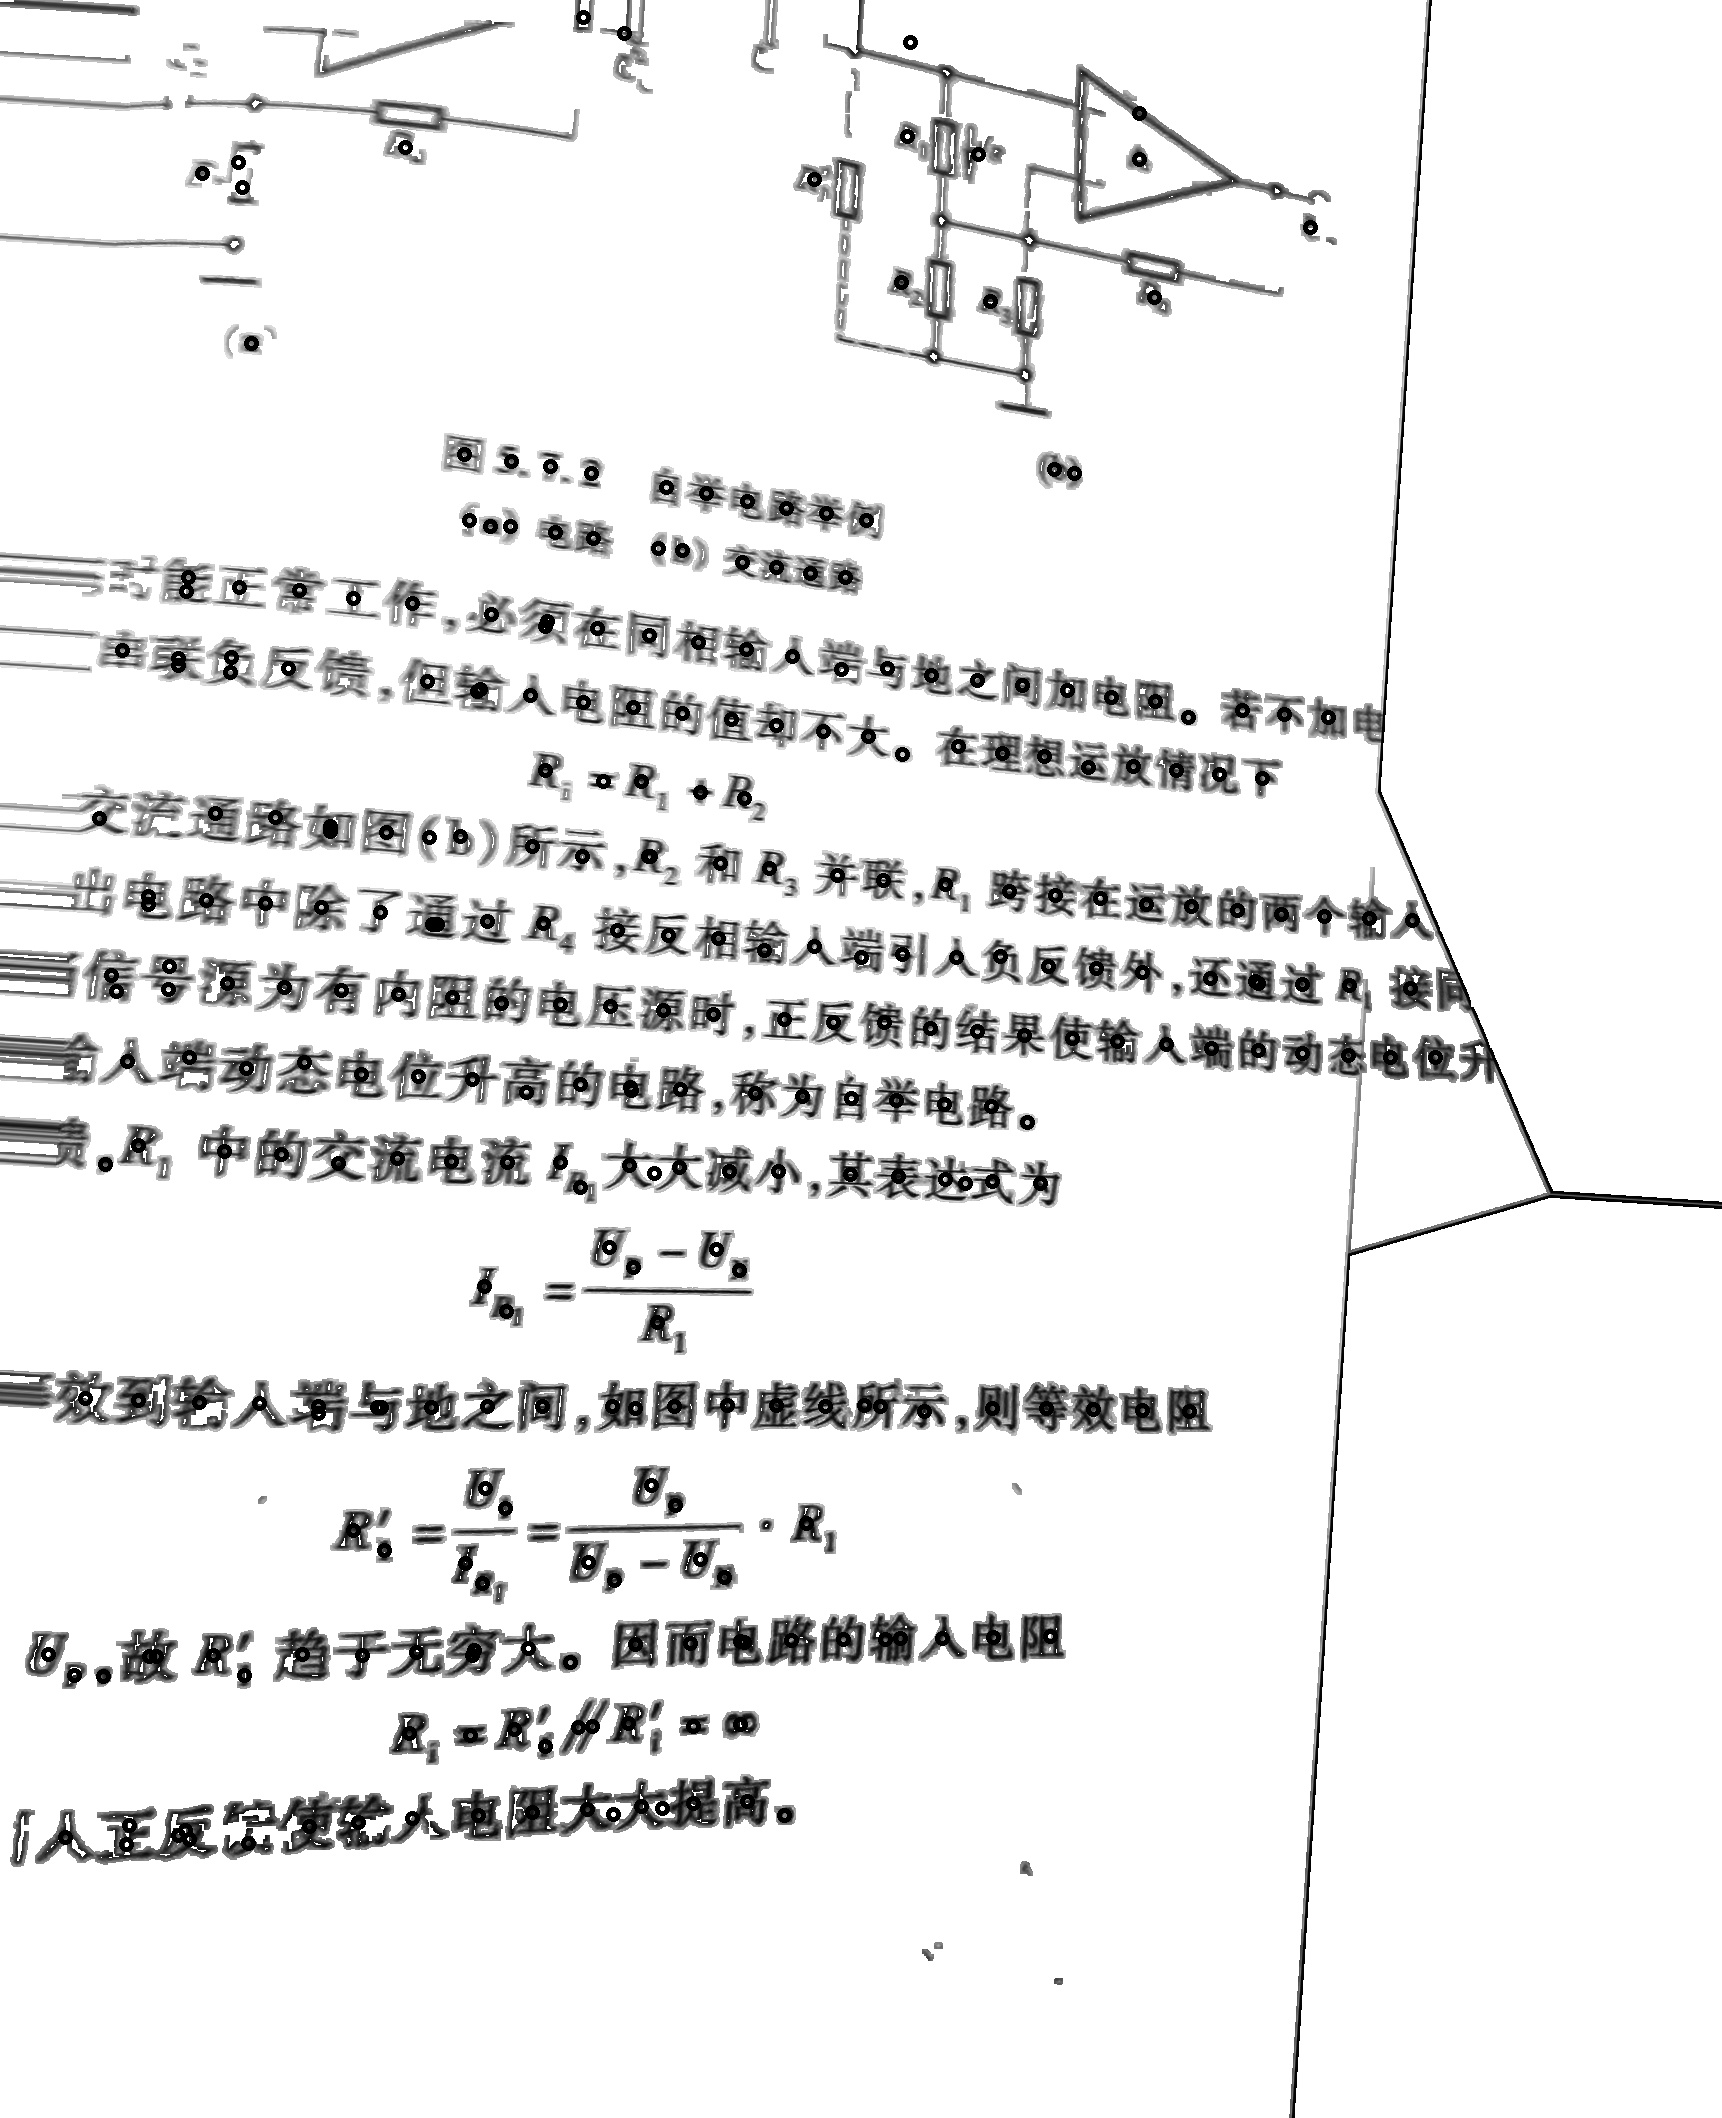
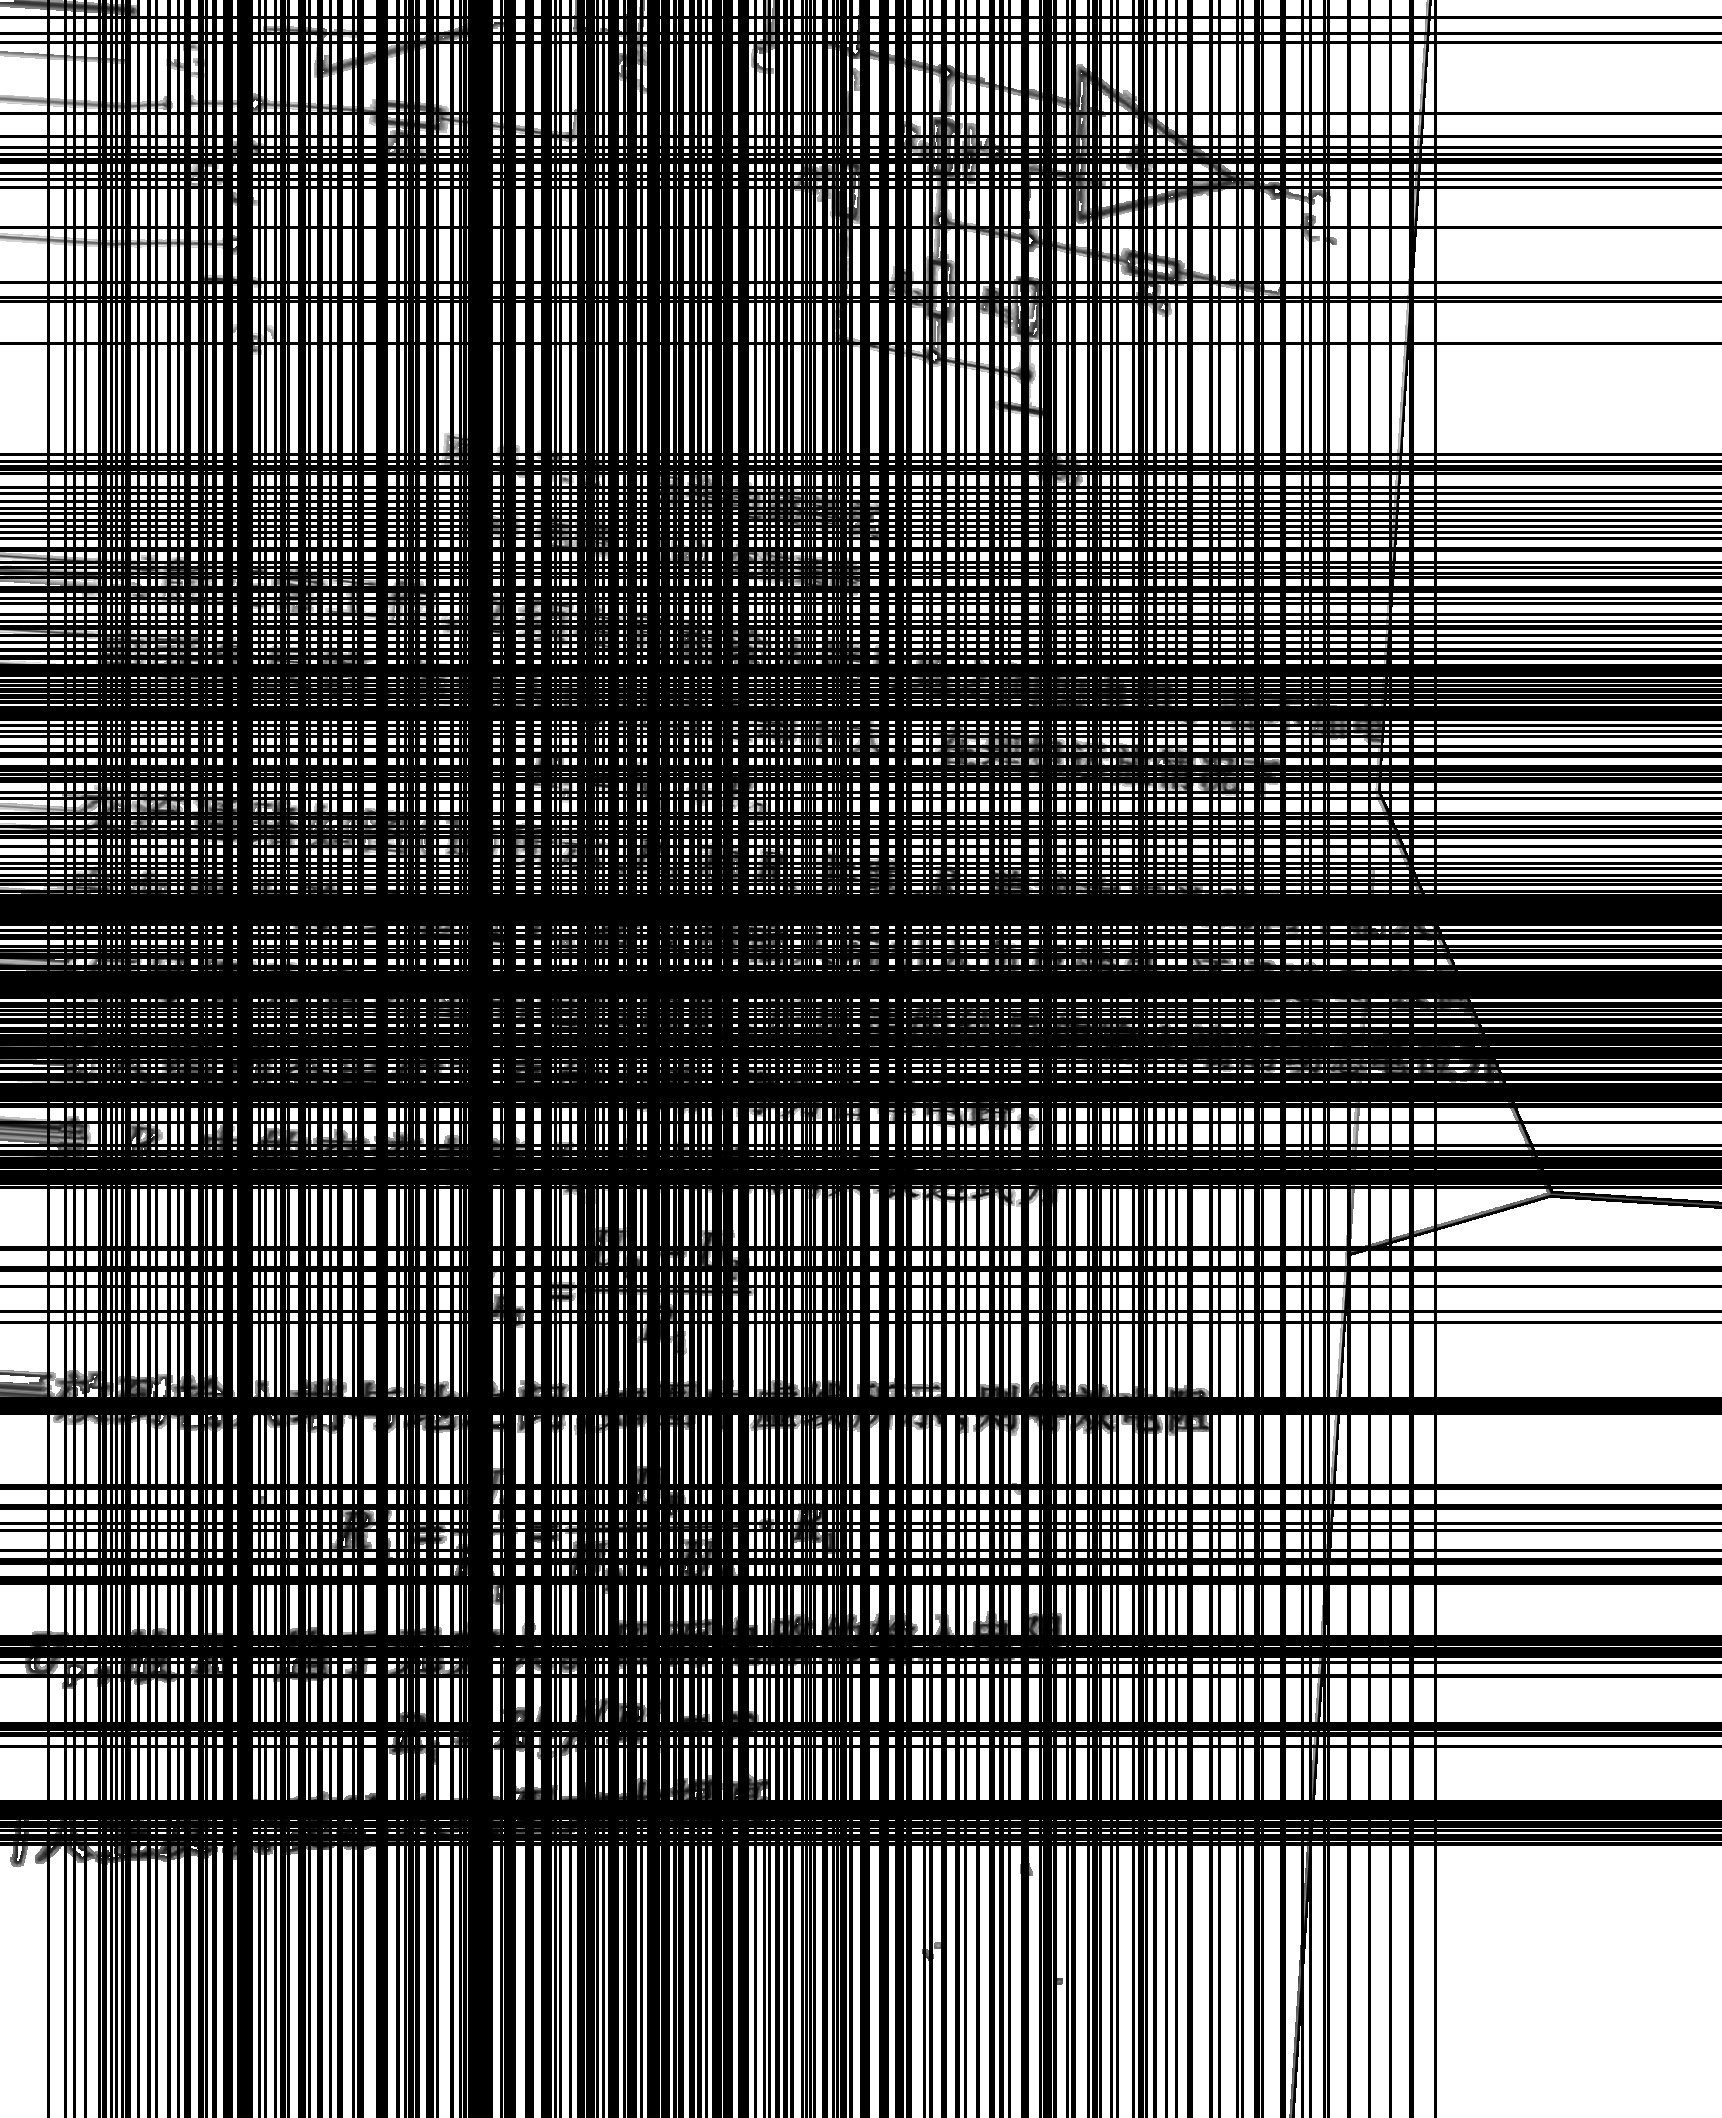
update text_find.py

diff --git a/main.py b/main.py
@@ -30,10 +30,22 @@ def main():
     # 利用MSER检测找到文字大致范围并框选出来
     print("----finding the text----")
     text_area = detect(img_rotated, norm=2)
-    # cv2.imwrite("./find_text_result/" + str(number) + ".jpg", text_area)
+    cv2.imwrite("./find_text_result/" + str(number) + ".jpg", text_area)
 
     print("----Done----")
 
 
 if __name__ == "__main__":
+    banner = \
+        """
+██████╗  ██████╗  ██████╗██╗   ██╗███╗   ███╗███████╗███╗   ██╗████████╗    ██████╗ ███████╗ ██████╗ ██████╗ ███╗   ██╗███████╗████████╗██████╗ ██╗   ██╗ ██████╗████████╗██╗ ██████╗ ███╗   ██╗
+██╔══██╗██╔═══██╗██╔════╝██║   ██║████╗ ████║██╔════╝████╗  ██║╚══██╔══╝    ██╔══██╗██╔════╝██╔════╝██╔═══██╗████╗  ██║██╔════╝╚══██╔══╝██╔══██╗██║   ██║██╔════╝╚══██╔══╝██║██╔═══██╗████╗  ██║
+██║  ██║██║   ██║██║     ██║   ██║██╔████╔██║█████╗  ██╔██╗ ██║   ██║       ██████╔╝█████╗  ██║     ██║   ██║██╔██╗ ██║███████╗   ██║   ██████╔╝██║   ██║██║        ██║   ██║██║   ██║██╔██╗ ██║
+██║  ██║██║   ██║██║     ██║   ██║██║╚██╔╝██║██╔══╝  ██║╚██╗██║   ██║       ██╔══██╗██╔══╝  ██║     ██║   ██║██║╚██╗██║╚════██║   ██║   ██╔══██╗██║   ██║██║        ██║   ██║██║   ██║██║╚██╗██║
+██████╔╝╚██████╔╝╚██████╗╚██████╔╝██║ ╚═╝ ██║███████╗██║ ╚████║   ██║       ██║  ██║███████╗╚██████╗╚██████╔╝██║ ╚████║███████║   ██║   ██║  ██║╚██████╔╝╚██████╗   ██║   ██║╚██████╔╝██║ ╚████║
+╚═════╝  ╚═════╝  ╚═════╝ ╚═════╝ ╚═╝     ╚═╝╚══════╝╚═╝  ╚═══╝   ╚═╝       ╚═╝  ╚═╝╚══════╝ ╚═════╝ ╚═════╝ ╚═╝  ╚═══╝╚══════╝   ╚═╝   ╚═╝  ╚═╝ ╚═════╝  ╚═════╝   ╚═╝   ╚═╝ ╚═════╝ ╚═╝  ╚═══╝
+                                                                                                                                                                                                
+	"""
+
+    print(banner)
     main()

diff --git a/text_find.py b/text_find.py
@@ -70,7 +70,7 @@ def hough_lines_point_set(pts, lines_max=20, threshold=1,
         r = idx - (n + 1) * (num_rho + 2) - 1
         line['votes'].append(accum[i])
         line['length_line'].append(int(min_rho + r * rho_step))
-        line['angle'].append(min_theta + n * theta_step)
+        line['angle'].append(int((min_theta + n * theta_step) * 180 / np.pi))
     return line
 
 
@@ -111,6 +111,7 @@ def detect(img_gray, norm=1.2):
     clahe = cv2.createCLAHE(clipLimit=2.0, tileGridSize=(5, 5))
     img_gray = clahe.apply(img_gray)
     img_gray = remove_the_bg(img_gray)
+    img_h, img_w = img_gray.shape
 
     # 创建mser实例
     mser = cv2.MSER_create(_delta=2, _min_area=300, _max_area=800, _max_variation=0.7)
@@ -134,12 +135,14 @@ def detect(img_gray, norm=1.2):
     pts = np.zeros((len(boxes), 2))
     pts[:, 0] = (boxes[:, 0] + boxes[:, 2]) / 2
     pts[:, 1] = (boxes[:, 1] + boxes[:, 3]) / 2
+    pts = pts.astype(np.int)
     for pt in pts:
-        cv2.circle(img_gray, tuple(pt.astype(np.int).tolist()), 5, (0, 255, 0), 3)
-
+        # cv2.circle(img_gray, tuple(pt.astype(np.int).tolist()), 5, (0, 0, 0), 3)
+        cv2.line(img_gray, (pt[0], 0), (pt[0], img_h), (0, 0, 0), 2)
+        cv2.line(img_gray, (0, pt[1]), (img_w, pt[1]), (0, 0, 0), 2)
     # 利用霍夫变换查找点集中的直线，返回角度单位为弧度
-    lines = hough_lines_point_set(pts=pts)
-    print(lines)
+    # lines = hough_lines_point_set(pts, min_theta=0., max_theta=np.pi/6)
+    # print(lines)
     return img_gray
 
 
